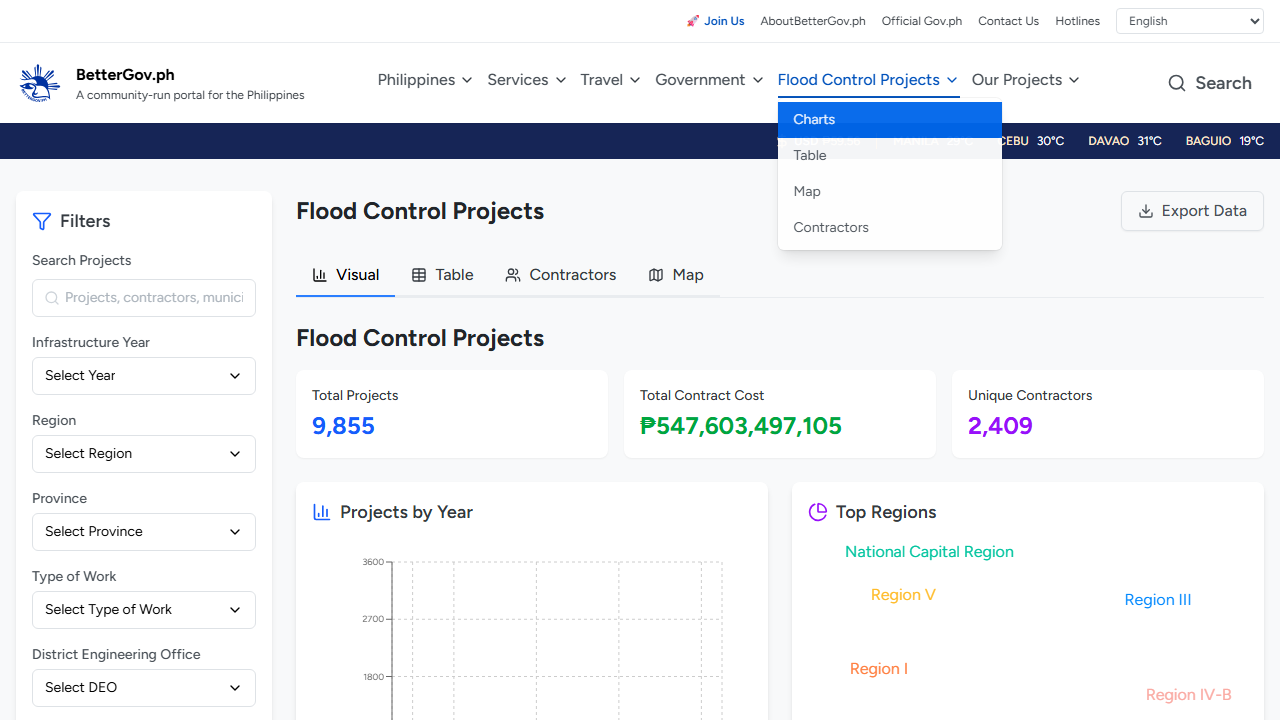
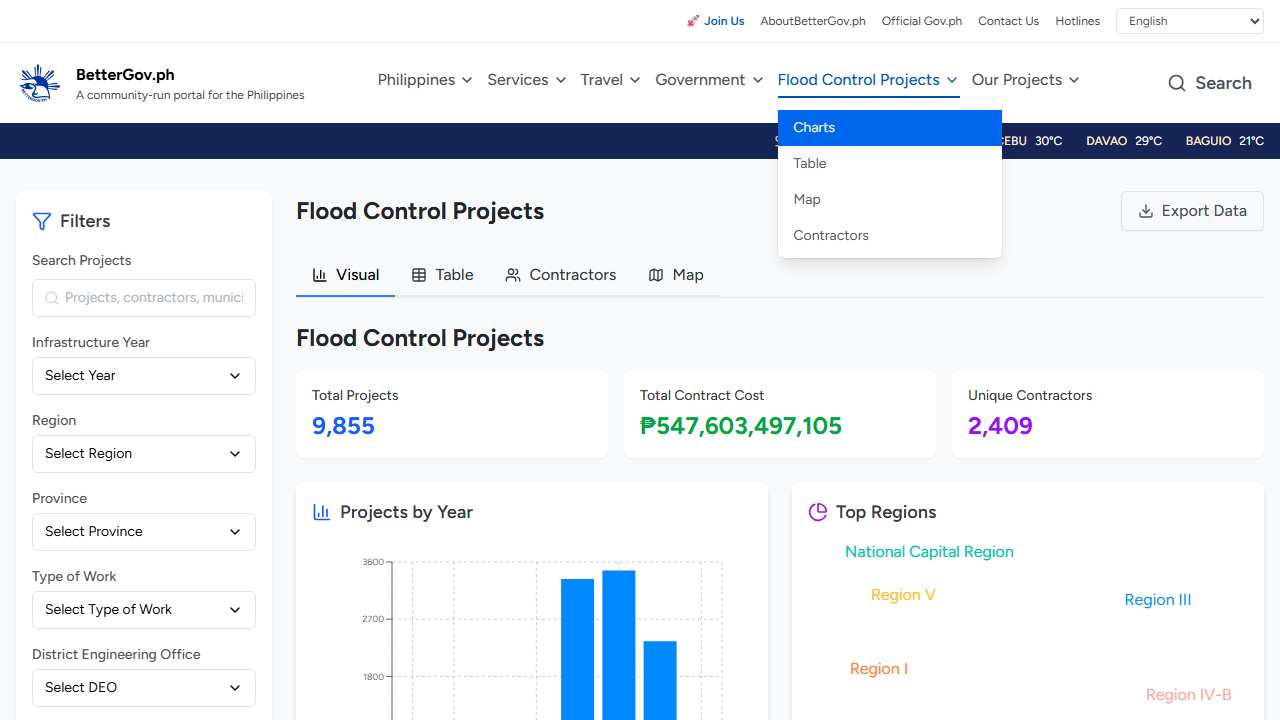
as of LCS4E7

Changed region(s): [[0.5938, 0.1222, 0.9062, 0.275], [0.4375, 0.7944, 0.5312, 1.0], [0.625, 0.3056, 0.7812, 0.3667]]

diff --git a/tests/bgov-fcp.spec.ts b/tests/bgov-fcp.spec.ts
@@ -9,23 +9,28 @@ test.describe('Flood Control Projects E2E Tests', () => {
         await home.goto()
         await home.navigateTo(home.fcpNavBar);
     });
-    
     test('FCP-TC001', async ({ page }, testInfo) => {
         /* 
             Date Created: March 20, 2026
             Automation Engineer: Biendroid
             Test ID: FCP-TC001
-            Test Title: Verify end URL of BGovPH's Flood Control Projects Page
+            Test Title: Verify end URL and tabs of BGovPH's Flood Control Projects Page
             Pre-requisites: none
         */
         const fcp = new FCP(page);
-        
+        const testID = testInfo.title
+
         // Assertion: URL ends with "/flood-control-projects"
         await expect(fcp.page.url().endsWith(fcp.endURL)).toBeTruthy()
-
+        // Assertion: Verify if Visual, Table, Contractors, and Map are visible
+        await expect(fcp.visualTab).toBeVisible();
+        await expect(fcp.tableTab).toBeVisible();
+        await expect(fcp.contractorsTab).toBeVisible();
+        await expect(fcp.mapTab).toBeVisible();
+        
         // Generate Test Evidence/s
         await page.screenshot({
-            path: `test-evidences/${testInfo.titlePath[2]}/fcp-page.png`
+            path: `test-evidences/${testID}/fcp-page.png`
         })
     });
     test('FCP-TC002', async ({ page }, testInfo) => {
@@ -33,105 +38,191 @@ test.describe('Flood Control Projects E2E Tests', () => {
             Date Created: March 20, 2026
             Automation Engineer: Biendroid
             Test ID: FCP-TC002
-            Test Title: Verify filters of BGovPH's Flood Control Projects Page
+            Test Title: Verify Visual tab filters of BGovPH's Flood Control Projects Page
             Pre-requisites: none
         */
         const fcp = new FCP(page);
-        
+        const testID = testInfo.title
+
+        // Navigate to Visual Tab
+        await fcp.visualTab.click()
         // Assertion: Filters Form
         await expect(fcp.filtersForm).toBeVisible();
         // Assertion: Search Projects field
         fcp.verifyFilterSectionIfVisible(fcp.searchProjects,
-                                        fcp.searchProjectsLabel,
-                                        fcp.searchProjectsField);
+            fcp.searchProjectsLabel,
+            fcp.searchProjectsField);
         // Assertion: Infrastructure field
-        fcp.verifyFilterSectionIfVisible(fcp.infrastructureYear, 
-                                        fcp.infrastructureYearLabel,
-                                        fcp.infrastructureYearDropdown);
+        fcp.verifyFilterSectionIfVisible(fcp.infrastructureYear,
+            fcp.infrastructureYearLabel,
+            fcp.infrastructureYearDropdown);
         // Assertion: Region field
-        fcp.verifyFilterSectionIfVisible(fcp.region, 
-                                        fcp.regionLabel,
-                                        fcp.regionDropdown);
+        fcp.verifyFilterSectionIfVisible(fcp.region,
+            fcp.regionLabel,
+            fcp.regionDropdown);
         // Assertion: Province field
-        fcp.verifyFilterSectionIfVisible(fcp.province, 
-                                        fcp.provinceLabel,
-                                        fcp.provinceDropdown);
+        fcp.verifyFilterSectionIfVisible(fcp.province,
+            fcp.provinceLabel,
+            fcp.provinceDropdown);
         // Assertion: Type of Work field
-        fcp.verifyFilterSectionIfVisible(fcp.typeOfWork, 
-                                        fcp.typeOfWorkLabel,
-                                        fcp.typeOfWorkDropdown);
+        fcp.verifyFilterSectionIfVisible(fcp.typeOfWork,
+            fcp.typeOfWorkLabel,
+            fcp.typeOfWorkDropdown);
         // Assertion: District Engineering Office (DEO) field
-        fcp.verifyFilterSectionIfVisible(fcp.deo, 
-                                        fcp.deoLabel,
-                                        fcp.deoDropdown);
+        fcp.verifyFilterSectionIfVisible(fcp.deo,
+            fcp.deoLabel,
+            fcp.deoDropdown);
         // Assertion: Legistlative District field
-        fcp.verifyFilterSectionIfVisible(fcp.legislativeDistrict, 
-                                        fcp.legislativeDistrictLabel,
-                                        fcp.legislativeDistrictDropdown);
-        
+        fcp.verifyFilterSectionIfVisible(fcp.legislativeDistrict,
+            fcp.legislativeDistrictLabel,
+            fcp.legislativeDistrictDropdown);
+
         // Generate Test Evidence/s
         await fcp.filtersForm.screenshot({
-            path: `test-evidences/${testInfo.titlePath[2]}/fcp-filters-form.png`
+            path: `test-evidences/${testID}/fcp-filters-form.png`
         });
         await fcp.searchProjects.screenshot({
-            path: `test-evidences/${testInfo.titlePath[2]}/fcp-filters-search-projects.png`
+            path: `test-evidences/${testID}/fcp-filters-search-projects.png`
         });
         await fcp.infrastructureYear.screenshot({
-            path: `test-evidences/${testInfo.titlePath[2]}/fcp-filters-infrastructure-year.png`
+            path: `test-evidences/${testID}/fcp-filters-infrastructure-year.png`
         });
         await fcp.region.screenshot({
-            path: `test-evidences/${testInfo.titlePath[2]}/fcp-filters-region.png`
+            path: `test-evidences/${testID}/fcp-filters-region.png`
         });
         await fcp.province.screenshot({
-            path: `test-evidences/${testInfo.titlePath[2]}/fcp-filters-province.png`
+            path: `test-evidences/${testID}/fcp-filters-province.png`
         });
         await fcp.typeOfWork.screenshot({
-            path: `test-evidences/${testInfo.titlePath[2]}/fcp-filters-type-of-work.png`
+            path: `test-evidences/${testID}/fcp-filters-type-of-work.png`
         });
         await fcp.deo.screenshot({
-            path: `test-evidences/${testInfo.titlePath[2]}/fcp-filters-deo.png`
+            path: `test-evidences/${testID}/fcp-filters-deo.png`
         });
         await fcp.legislativeDistrict.screenshot({
-            path: `test-evidences/${testInfo.titlePath[2]}/fcp-filters-legislative-district.png`
+            path: `test-evidences/${testID}/fcp-filters-legislative-district.png`
         });
     });
+    // TODO: testing filters at Table Tab
     test('FCP-TC003', async ({ page }, testInfo) => {
         /* 
             Date Created: March 20, 2026
             Automation Engineer: Biendroid
             Test ID: FCP-TC003
-            Test Title: Verify search results to given filters of BGovPH's Flood Control Projects Page
+            Test Title: Verify Table tab filters of BGovPH's Flood Control Projects Page
+            Pre-requisites: none
+        */
+        const fcp = new FCP(page);
+        const testID = testInfo.title
+
+        // Navigate to Table Tab
+        await fcp.tableTab.click()
+        // Assertion: Filters Form
+        await expect(fcp.filtersForm).toBeVisible();
+        // Assertion: Search Projects field
+        fcp.verifyFilterSectionIfVisible(fcp.searchProjects,
+            fcp.searchProjectsLabel,
+            fcp.searchProjectsField);
+        // Assertion: Infrastructure field
+        fcp.verifyFilterSectionIfVisible(fcp.infrastructureYear,
+            fcp.infrastructureYearLabel,
+            fcp.infrastructureYearDropdown);
+        // Assertion: Region field
+        fcp.verifyFilterSectionIfVisible(fcp.region,
+            fcp.regionLabel,
+            fcp.regionDropdown);
+        // Assertion: Province field
+        fcp.verifyFilterSectionIfVisible(fcp.province,
+            fcp.provinceLabel,
+            fcp.provinceDropdown);
+        // Assertion: Type of Work field
+        fcp.verifyFilterSectionIfVisible(fcp.typeOfWork,
+            fcp.typeOfWorkLabel,
+            fcp.typeOfWorkDropdown);
+        // Assertion: District Engineering Office (DEO) field
+        fcp.verifyFilterSectionIfVisible(fcp.deo,
+            fcp.deoLabel,
+            fcp.deoDropdown);
+        // Assertion: Legistlative District field
+        fcp.verifyFilterSectionIfVisible(fcp.legislativeDistrict,
+            fcp.legislativeDistrictLabel,
+            fcp.legislativeDistrictDropdown);
+
+        // Generate Test Evidence/s
+        await fcp.filtersForm.screenshot({
+            path: `test-evidences/${testID}/fcp-filters-form.png`
+        });
+        await fcp.searchProjects.screenshot({
+            path: `test-evidences/${testID}/fcp-filters-search-projects.png`
+        });
+        await fcp.infrastructureYear.screenshot({
+            path: `test-evidences/${testID}/fcp-filters-infrastructure-year.png`
+        });
+        await fcp.region.screenshot({
+            path: `test-evidences/${testID}/fcp-filters-region.png`
+        });
+        await fcp.province.screenshot({
+            path: `test-evidences/${testID}/fcp-filters-province.png`
+        });
+        await fcp.typeOfWork.screenshot({
+            path: `test-evidences/${testID}/fcp-filters-type-of-work.png`
+        });
+        await fcp.deo.screenshot({
+            path: `test-evidences/${testID}/fcp-filters-deo.png`
+        });
+        await fcp.legislativeDistrict.screenshot({
+            path: `test-evidences/${testID}/fcp-filters-legislative-district.png`
+        });
+    });
+    test('FCP-TC004', async ({ page }, testInfo) => {
+        /* 
+            Date Created: March 20, 2026
+            Automation Engineer: Biendroid
+            Test ID: FCP-TC004
+            Test Title: Verify search results to given filters of BGovPH's Flood Control Projects Page in Visual tab
             Pre-requisites: 
-                Search Projects: 
+                Search Projects: Completion of Bagani Ubbog-San Juan-San Antonio Drainage Canal, Candon City, Ilocos Sur
+                Infrastructure Year: 2021
+                Region: Region I
+                Type of Work: Construction of Drainage Structure
+                District Engineering Office: Ilocos Sur 2nd District Engineering Office
+                Legislative District: ILOCOS SUR (SECOND LEGISLATIVE DISTRICT)
         */
 
-        const fcp = new FCP(page);
-
-        // Provide values to filters
-        await fcp.searchProjectsField.fill('Completion of Bagani Ubbog-San Juan-San Antonio Drainage Canal, Candon City, Ilocos Sur')
+        const fcp = new FCP(page)
+        const testID = testInfo.title
+        const project = 'Completion of Bagani Ubbog-San Juan-San Antonio Drainage Canal, Candon City, Ilocos Sur'
+        const year = 2021
+        const region = 'Region I'
+        const work = 'Construction of Drainage Structure'
+        const deo = 'Ilocos Sur 2nd District Engineering Office'
+        const district ='ILOCOS SUR (SECOND LEGISLATIVE DISTRICT)'
         
-        // TODO: simplify implentation for dropdown
-        await fcp.infrastructureYearDropdown.click()
-        await fcp.page.getByRole('button', { name: '2021' }).click()
-        // TODO: simplify implementation for combobox
-        await fcp.regionDropdown.click()
-        await fcp.page.getByPlaceholder('Search...').fill('Region I')
-        await fcp.page.locator("//button/div/span[text()='Region I']").click()
-        // TODO: simplify implementation for combobox
-        await fcp.typeOfWorkDropdown.click()
-        await fcp.page.getByPlaceholder('Search...').fill('Construction of Drainage Structure')
-        await fcp.page.locator("//button/div/span[text()='Construction of Drainage Structure']").click()
-        // TODO: simplify implementation for combobox
-        await fcp.deoDropdown.click()
-        await fcp.page.getByPlaceholder('Search...').fill('Ilocos Sur 2nd District Engineering Office')
-        await fcp.page.locator("//button/div/span[text()='Ilocos Sur 2nd District Engineering Office']").click()
-        // TODO: simplify implementation for combobox
-        await fcp.legislativeDistrictDropdown.click()
-        await fcp.page.getByPlaceholder('Search...').fill('ILOCOS SUR (SECOND LEGISLATIVE DISTRICT)')
-        await fcp.page.locator("//button/div/span[text()='ILOCOS SUR (SECOND LEGISLATIVE DISTRICT)']").click()
-
+        // Navigate to Visual tab
+        await fcp.visualTab.click();
+        // Provide values to filters
+        await fcp.searchProjectsField.fill(project)
+        await fcp.selectItemFromDropdown(fcp.infrastructureYearDropdown, String(year))
+        await fcp.selectItemFromCombobox(fcp.regionDropdown, region)
+        await fcp.selectItemFromCombobox(fcp.typeOfWorkDropdown, work)
+        await fcp.selectItemFromCombobox(fcp.deoDropdown, deo)
+        await fcp.selectItemFromCombobox(fcp.legislativeDistrictDropdown, district)
         await page.evaluate(() => {
             window.scrollTo(0, 0)
+        });
+
+        // Assert entered filters to be visible in header
+        const filterText = await page.locator("//div[@class='flex-1']/h1").textContent()
+        expect(filterText).toContain(`Search: "${project}"`)
+        expect(filterText).toContain(`Year: ${year}`)
+        expect(filterText).toContain(`Region: ${region}`)
+        expect(filterText).toContain(`Type of Work: ${work}`)
+        expect(filterText).toContain(`District Engineering Office: ${deo}`)
+        expect(filterText).toContain(`Legislative District: ${district}`)
+
+        // Generate Test Evidence/s
+        await page.screenshot({
+            path: `test-evidences/${testID}/fcp-results.png`
         });
     });
 });

diff --git a/pages/bgov-fcp.ts b/pages/bgov-fcp.ts
@@ -4,6 +4,10 @@ export class FCP {
     // Declare Members
     readonly page: Page;
     readonly endURL: string;
+    readonly visualTab: Locator;
+    readonly tableTab: Locator;
+    readonly contractorsTab: Locator;
+    readonly mapTab: Locator;
     readonly filtersForm: Locator;
     readonly searchProjects: Locator;
     readonly searchProjectsLabel: Locator;
@@ -31,6 +35,10 @@ export class FCP {
     constructor(page: Page) {
         this.page = page
         this.endURL = '/flood-control-projects'
+        this.visualTab = page.getByRole('link', { name: 'Visual', exact: true })
+        this.tableTab = page.getByRole('link', { name: 'Table', exact: true })
+        this.contractorsTab = page.getByRole('link', { name: 'Contractors', exact: true })
+        this.mapTab = page.getByRole('link', { name: 'Map', exact: true })
         // Locate the filters form (base webelement)
         this.filtersForm = page.locator('//div[@class="bg-gray-50"]/div/div/div[1]/div')
         // Locate the Search Projects div that has a text
@@ -89,5 +97,24 @@ export class FCP {
         await expect(div).toBeVisible();
         await expect(label).toBeVisible();
         await expect(input).toBeVisible();
-    };
+    }
+    async selectItemFromDropdown(dropdown: Locator, item: string) {
+        /*
+        * This asynchronous method selects an
+        * option/item from a specific dropdown.
+        */
+
+        await dropdown.click()
+        await this.page.getByRole('button', { name: item }).click()
+    }
+    async selectItemFromCombobox(dropdown: Locator, item: string) {
+        /*
+        * This asynchronous method searches and selects an
+        * option/item from a specific combobox.
+        */
+
+        await dropdown.click()
+        await this.page.getByPlaceholder('Search...').fill(item)
+        await this.page.locator(`//button/div/span[text()='${item}']`).click()
+    }
 } 

diff --git a/pages/bgov-home.ts b/pages/bgov-home.ts
@@ -15,7 +15,7 @@ export class BGovHome {
     async goto() {
         this.page.goto('https://bettergov.ph/');
     }
-    async navigateTo(navbar:Locator) {
+    async navigateTo(navbar: Locator) {
         await navbar.click();
     }
 } 
